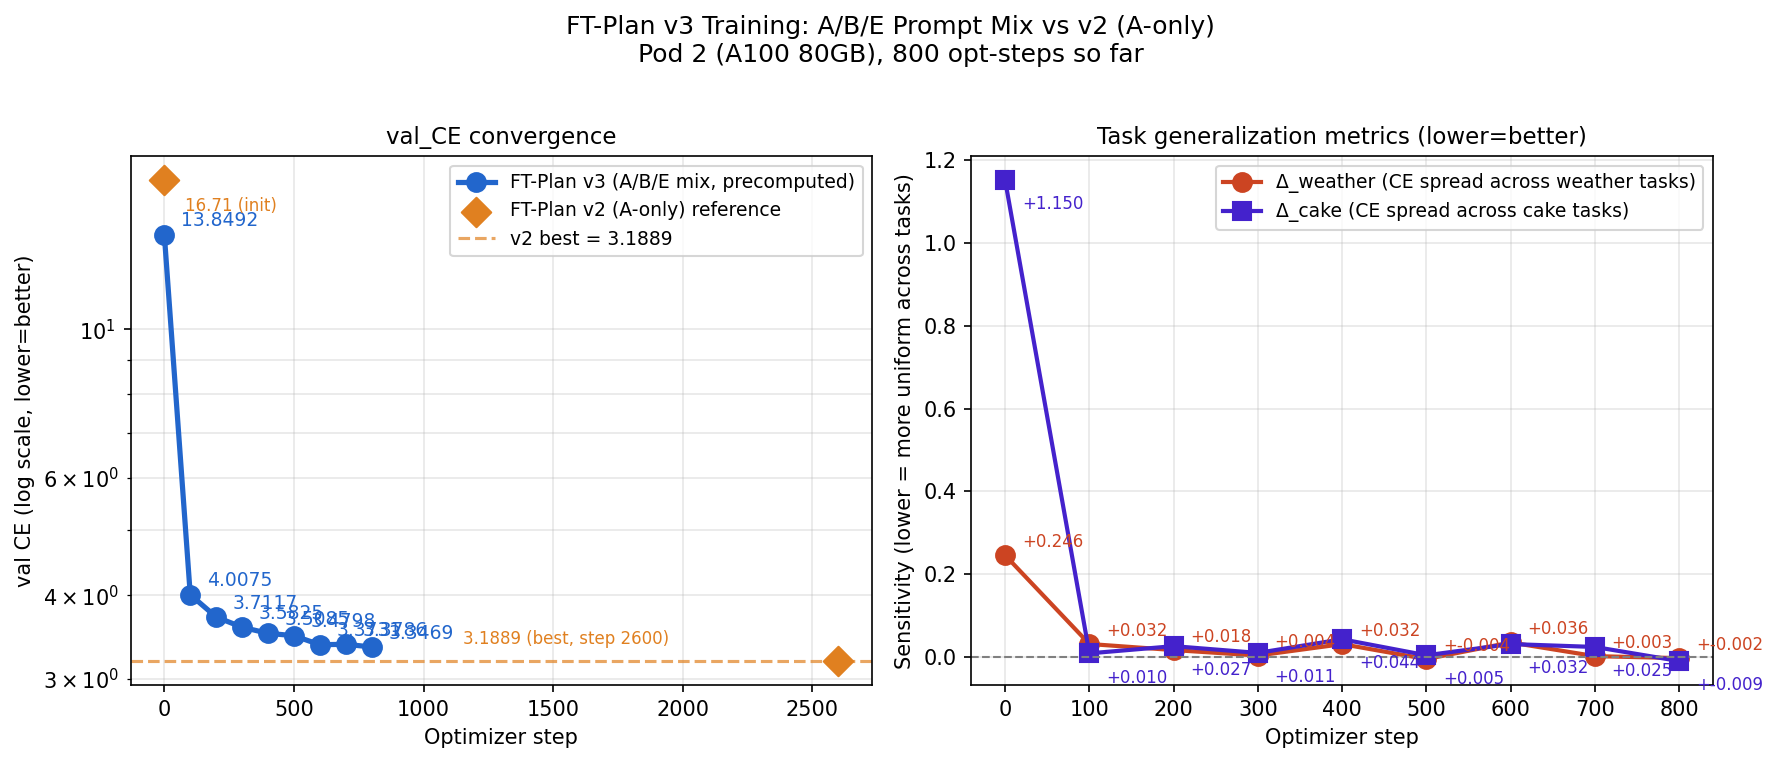
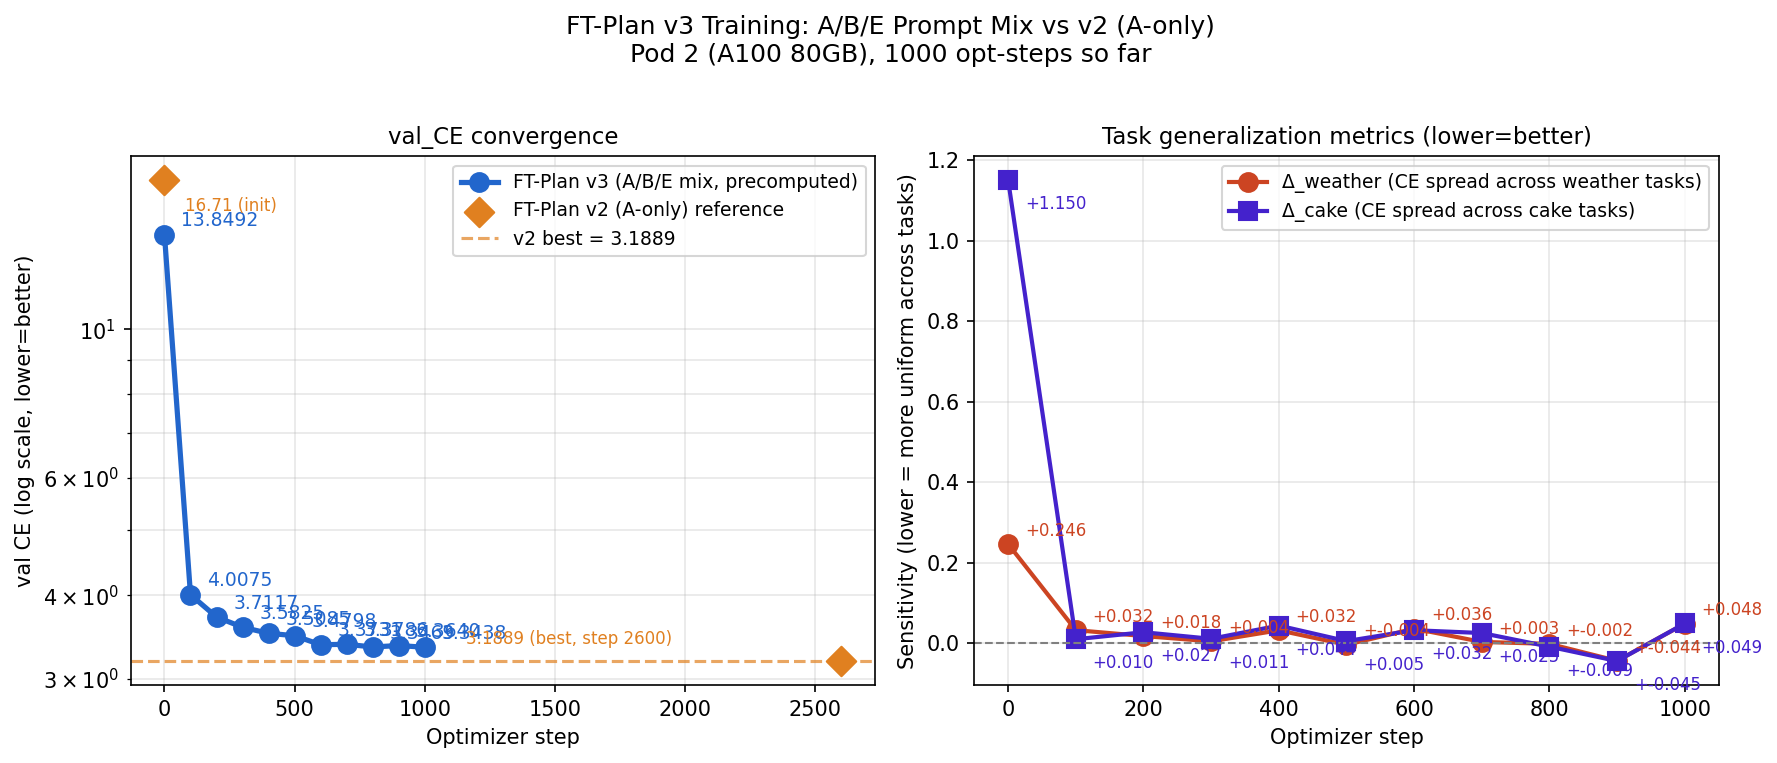
FT-Plan v3 step 1000: new best val_CE=3.3438 (beats step 800 3.3469)

diff --git a/chart_ftplan_v3_progress.py b/chart_ftplan_v3_progress.py
@@ -32,6 +32,8 @@ v3_data = [
     {"opt_step": 600, "val_ce": 3.373129766653566,   "deltas": {"weather": 0.03586063861846922,  "cake": 0.03202191352844208}},
     {"opt_step": 700, "val_ce": 3.378574650953798,   "deltas": {"weather":  0.002912940979003853,  "cake":  0.02502442836761487}},
     {"opt_step": 800, "val_ce": 3.3469306927393463,  "deltas": {"weather": -0.0018874692916868163, "cake": -0.008929896354675115}},
+    {"opt_step": 900, "val_ce": 3.3640293439521507,  "deltas": {"weather": -0.04412234783172586,  "cake": -0.044603810310363645}},
+    {"opt_step": 1000, "val_ce": 3.343798521248733,  "deltas": {"weather":  0.04826022148132347,  "cake":  0.04870706081390397}},
 ]
 # Try loading real log
 try:
